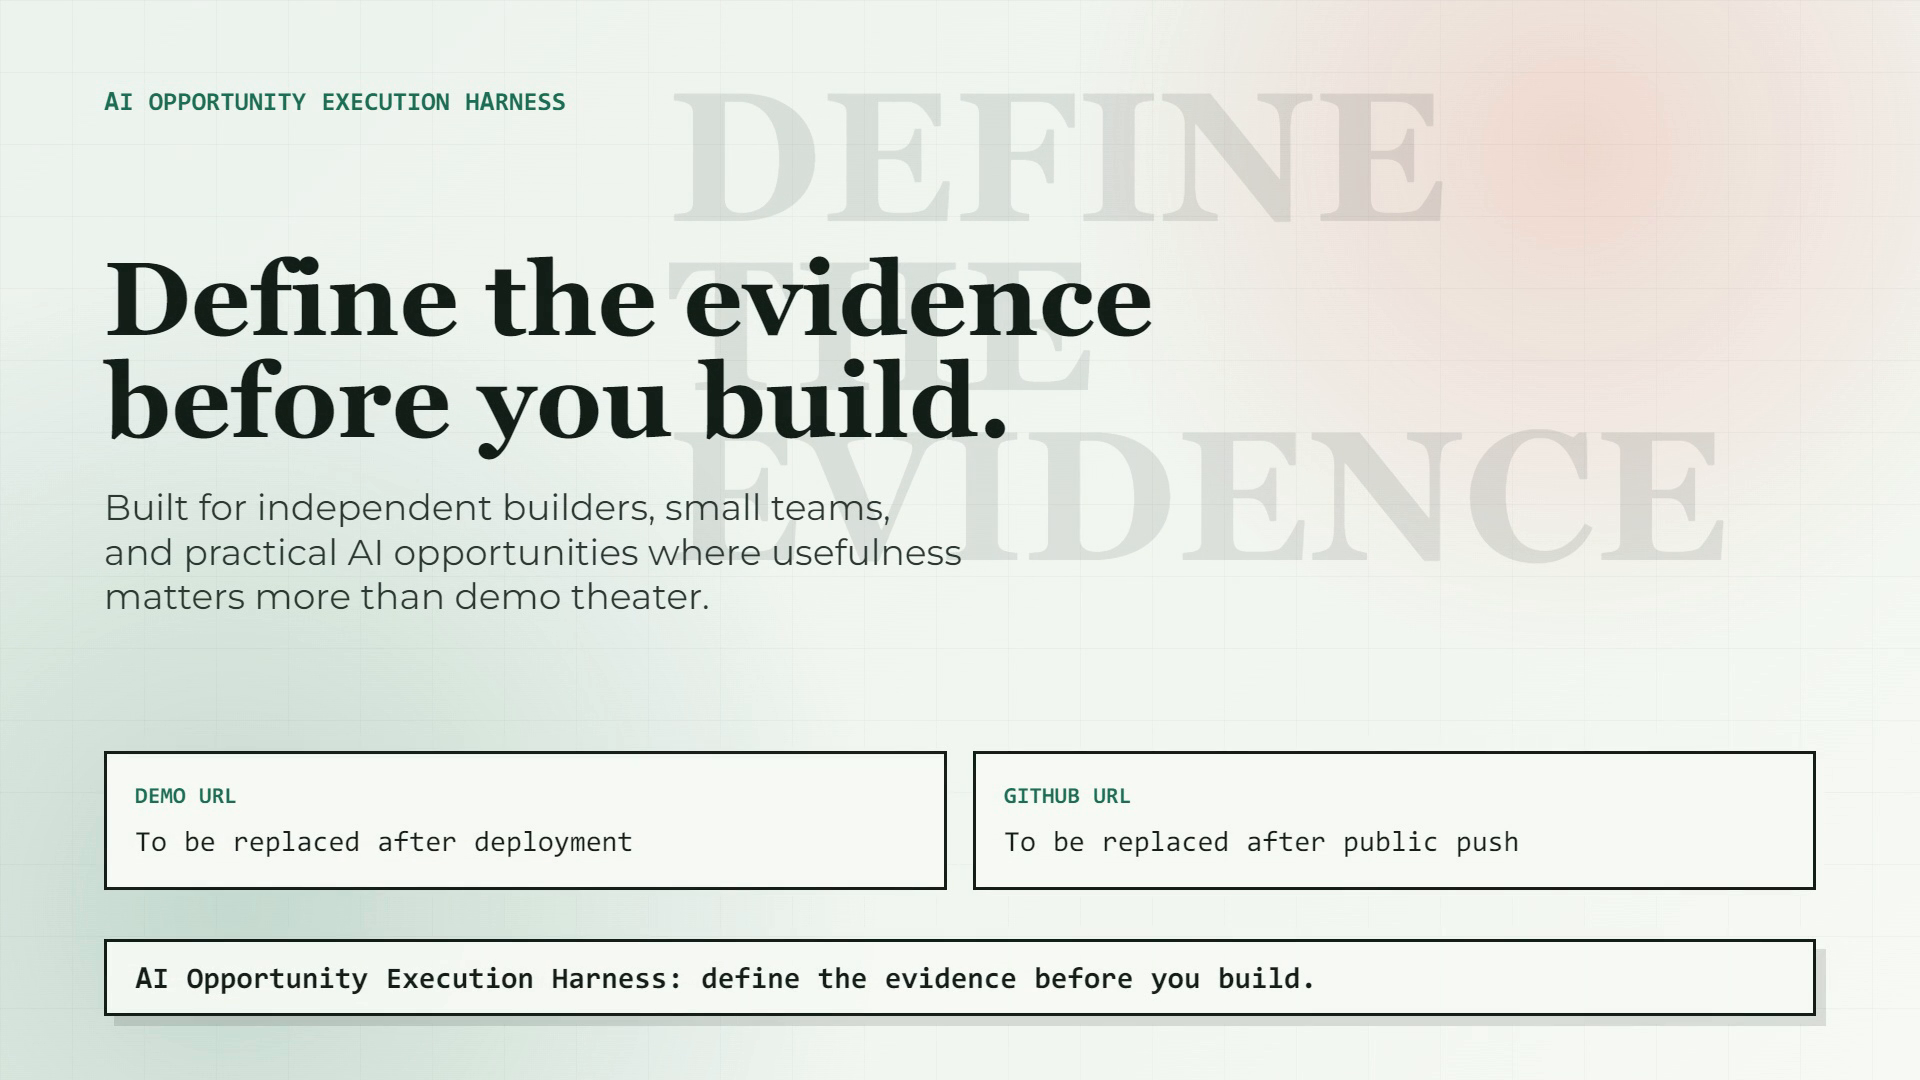
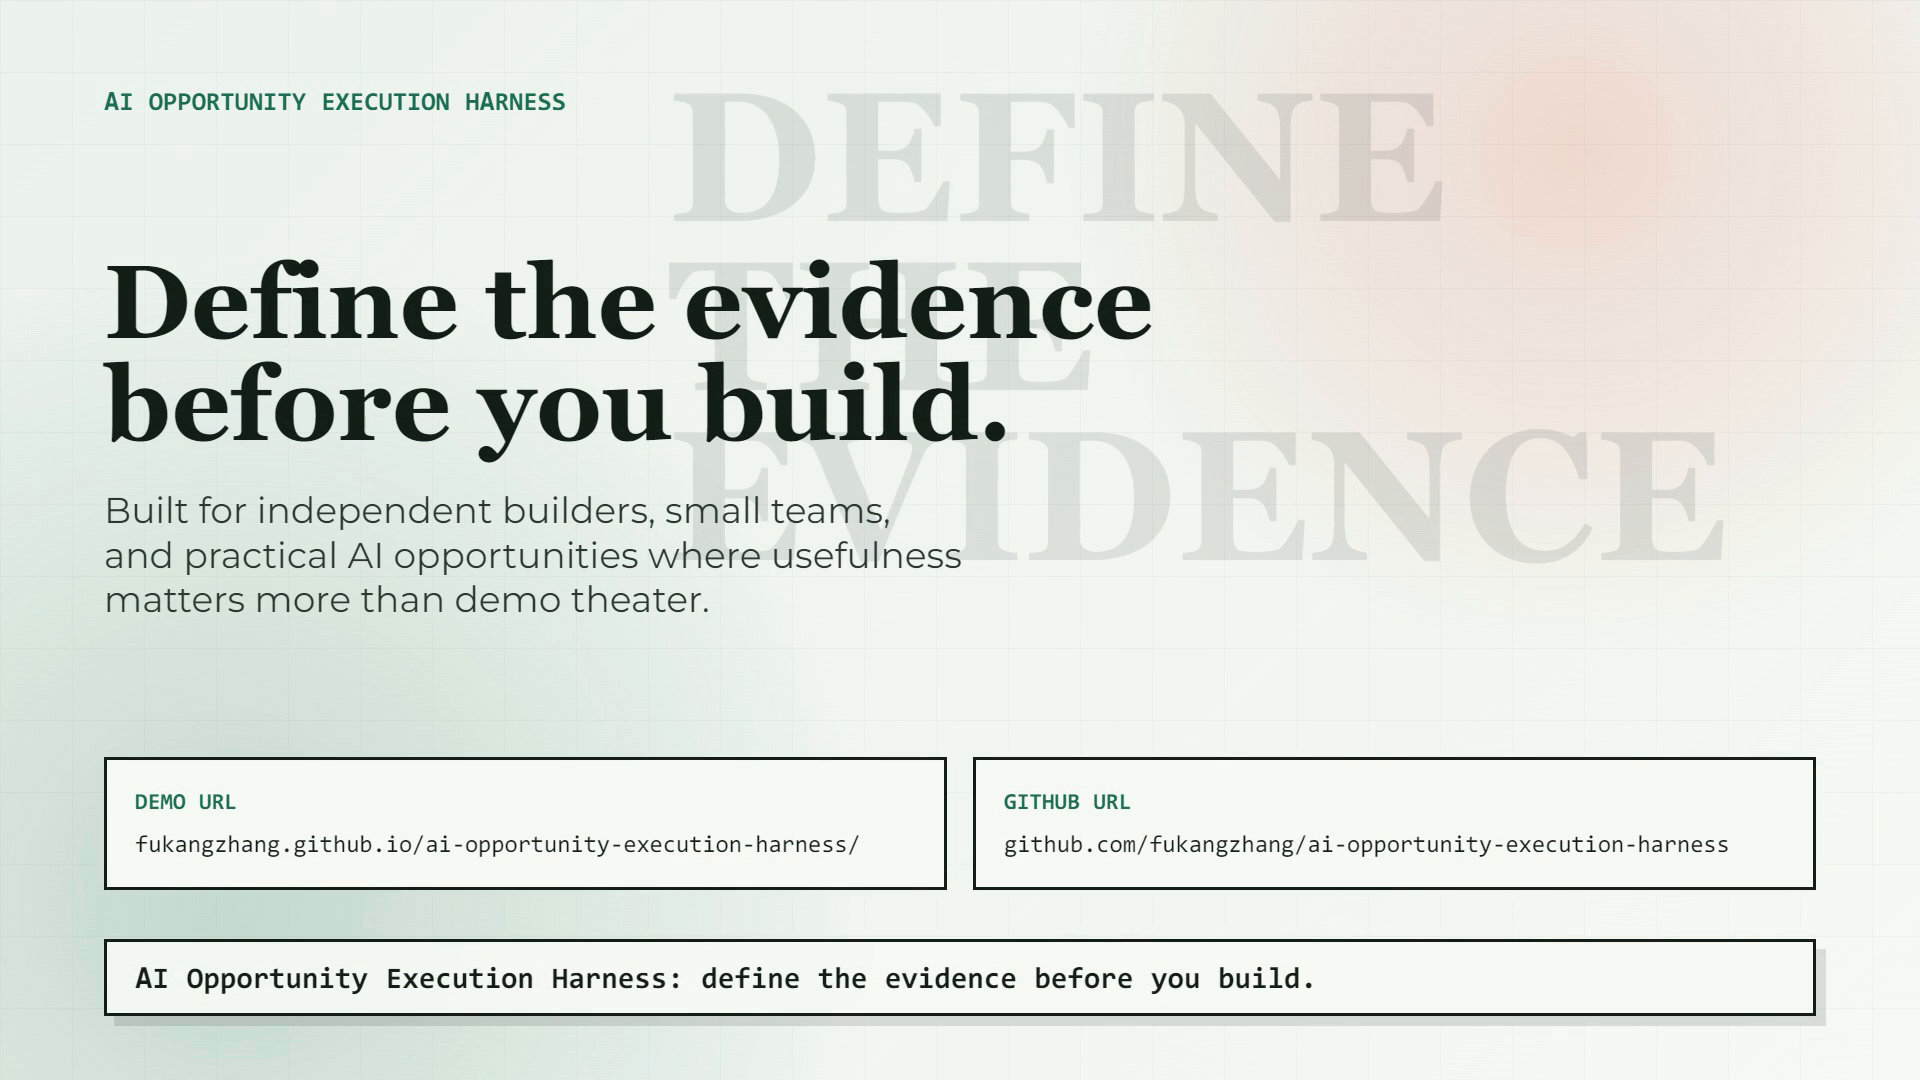
Update demo URLs for Pages launch

diff --git a/competitions/20-active/proof-of-usefulness-agent-harness/video/pou-demo-video/index.html b/competitions/20-active/proof-of-usefulness-agent-harness/video/pou-demo-video/index.html
@@ -492,8 +492,9 @@
       .url-box .mono {
         margin-top: 16px;
         color: #16201b;
-        font-size: 29px;
+        font-size: 24px;
         line-height: 1.16;
+        overflow-wrap: anywhere;
       }
     </style>
   </head>
@@ -700,11 +701,11 @@
           <div class="url-grid">
             <div class="url-box">
               <div class="label">Demo URL</div>
-              <div class="mono">To be replaced after deployment</div>
+              <div class="mono">fukangzhang.github.io/ai-opportunity-execution-harness/</div>
             </div>
             <div class="url-box">
               <div class="label">GitHub URL</div>
-              <div class="mono">To be replaced after public push</div>
+              <div class="mono">github.com/fukangzhang/ai-opportunity-execution-harness</div>
             </div>
           </div>
         </div>

diff --git a/competitions/20-active/proof-of-usefulness-agent-harness/submissions/pre-submit-checklist.md b/competitions/20-active/proof-of-usefulness-agent-harness/submissions/pre-submit-checklist.md
@@ -14,6 +14,8 @@
 - [x] 编写提交材料草稿。
 - [x] 使用 HyperFrames 生成 75 秒英文演示视频草版。
 - [x] 生成视频流程、截图和原理说明文档。
+- [x] 部署 GitHub Pages 静态 live demo。
+- [x] 公开 GitHub 仓库。
 
 ## 我可以继续做
 
@@ -22,20 +24,18 @@
 - [ ] 写公开 README / HackerNoon 风格说明文。
 - [ ] 准备部署配置，例如 Streamlit Community Cloud / Hugging Face Spaces / Render。
 - [x] 准备 GitHub Pages 静态 live demo 配置。
-- [ ] 准备 GitHub README、截图和视频占位。
+- [ ] 准备 GitHub README 最终包装文案。
 
 ## 需要用户协作
 
-- [ ] 确认是否公开 GitHub 仓库。
-- [ ] 确认部署平台，并在需要时登录。
+- [x] 确认并公开 GitHub 仓库。
+- [x] 确认部署平台：GitHub Pages。
 - [x] 确认旁白语言：英文。
 - [x] 使用合成旁白生成本地视频草版。
 - [ ] 最终提交前登录 Proof of Usefulness 提交页。
 
 ## 当前推荐下一步
 
-1. 先推公开 GitHub 仓库或确认已有仓库地址。
-2. 部署 GitHub Pages 静态 live demo，拿到 Project Homepage URL。
-3. 上传 75 秒视频并拿到公开链接。
-4. 写 HackerNoon 风格项目说明。
-5. 登录提交页填写材料。
+1. 写 HackerNoon 风格项目说明。
+2. 如提交表单要求单独视频 URL，则上传 75 秒视频并拿到公开链接。
+3. 登录提交页填写材料。

diff --git a/competitions/20-active/proof-of-usefulness-agent-harness/submissions/submission-draft.md b/competitions/20-active/proof-of-usefulness-agent-harness/submissions/submission-draft.md
@@ -10,11 +10,11 @@ AI Opportunity Execution Harness helps independent builders and small teams deci
 
 ## Project Homepage URL
 
-待定：推荐使用 GitHub Pages 免费部署静态 live demo。目标格式：`https://fukangzhang.github.io/ai-opportunity-execution-harness/`。
+https://fukangzhang.github.io/ai-opportunity-execution-harness/
 
 ## GitHub Repository
 
-待定：推荐公开仓库 `https://github.com/fukangzhang/ai-opportunity-execution-harness`。
+https://github.com/fukangzhang/ai-opportunity-execution-harness
 
 ## Proof of Usefulness Evidence
 
@@ -30,11 +30,10 @@ AI Opportunity Execution Harness helps independent builders and small teams deci
 - 结构：Hook -> Problem -> Proof sample -> Microsoft counterexample -> Internal AI idea -> saved run log -> CTA。
 - 状态：已用 HyperFrames 生成英文旁白标准质量 MP4。
 - 本地视频：`video/pou-demo-video/renders/pou-demo-video.mp4`
-- 仍需：部署 URL 和 GitHub URL 确定后替换视频结尾占位，并上传到公开视频地址。
+- 公开视频地址：当前可直接使用 GitHub Pages 内嵌视频，也可后续上传到 YouTube/Loom 后替换。
 
 ## 下一步缺口
 
-- 部署 demo URL。
 - 增加 LLM 抽取模式。
-- 上传 75 秒演示视频到提交页可访问的位置。
+- 如提交表单要求单独视频 URL，则上传 75 秒演示视频到 YouTube/Loom 后补充。
 - 补一篇 HackerNoon 风格项目说明。

diff --git a/competitions/20-active/proof-of-usefulness-agent-harness/app/docs/GITHUB_PAGES_DEPLOYMENT.md b/competitions/20-active/proof-of-usefulness-agent-harness/app/docs/GITHUB_PAGES_DEPLOYMENT.md
@@ -40,6 +40,11 @@ https://<github-user>.github.io/<repository-name>/
 https://fukangzhang.github.io/ai-opportunity-execution-harness/
 ```
 
+当前已部署成功：
+
+- Project Homepage URL: https://fukangzhang.github.io/ai-opportunity-execution-harness/
+- GitHub Repository: https://github.com/fukangzhang/ai-opportunity-execution-harness
+
 不买域名也可以用。自定义域名只是可选项，不是比赛提交的必要条件。
 
 ## 当前仓库结构